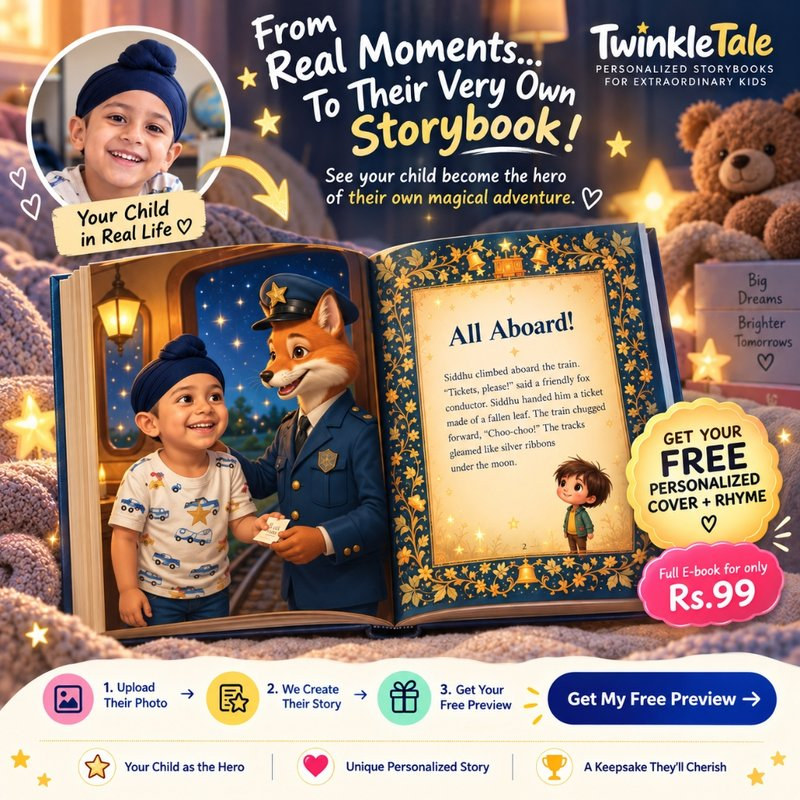
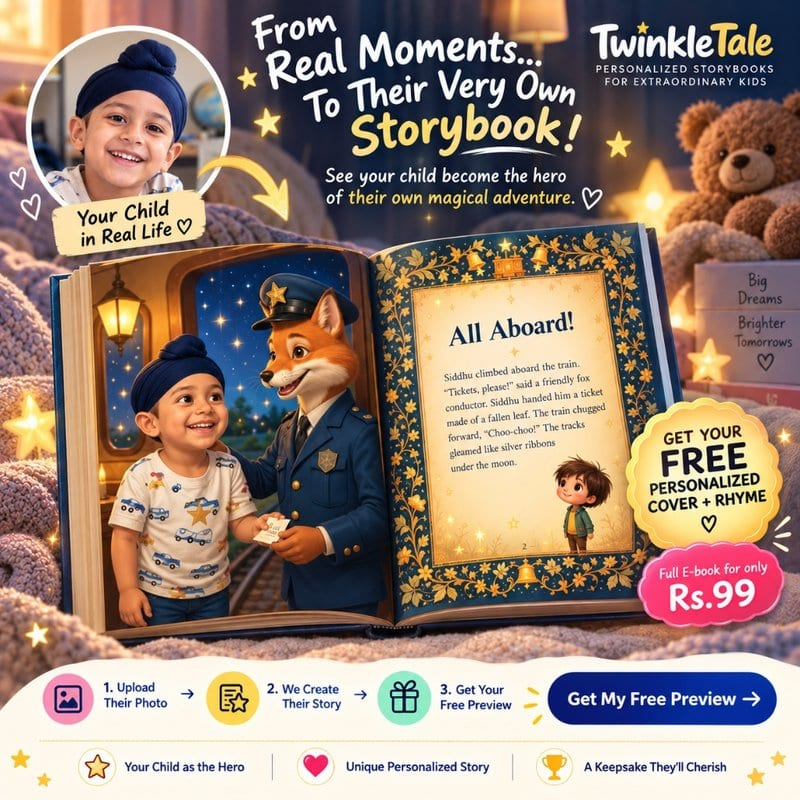
fix(landing): resolve ad visual disorientation, compress showcase images to WebP, and add dynamic personalized preview button

diff --git a/special.html b/special.html
@@ -24,6 +24,9 @@
   <link rel="preconnect" href="https://fonts.gstatic.com" crossorigin>
   <link href="https://fonts.googleapis.com/css2?family=Caveat:wght@600;700&family=Outfit:wght@400;500;600;700;800&family=Playfair+Display:ital,wght@0,600;0,700;0,800;1,600&display=swap" rel="stylesheet">
   <link rel="stylesheet" href="https://cdnjs.cloudflare.com/ajax/libs/font-awesome/6.4.0/css/all.min.css">
+  <!-- Preload & Prefetch Critical Ad Visuals for Sub-Second Load -->
+  <link rel="preload" as="image" href="/public/ad_showcase_siddhu.webp" type="image/webp" fetchpriority="high">
+  <link rel="prefetch" as="image" href="/public/ad_showcase_ananya.webp" type="image/webp">
 
   <!-- Razorpay Checkout SDK -->
   <script src="https://checkout.razorpay.com/v1/checkout.js"></script>
@@ -219,27 +222,30 @@
       box-shadow: var(--shadow-md);
       overflow: hidden;
       margin-bottom: 18px;
+      width: 100%;
     }
     .creative-tabs {
       display: flex;
       background: #F3ECE2;
-      border-bottom: 1px solid var(--border-light);
+      border-bottom: 2px solid var(--border-light);
     }
     .creative-tab {
       flex: 1;
-      padding: 10px 8px;
-      font-size: 0.86rem;
+      padding: 12px 8px;
+      font-size: 0.88rem;
       font-weight: 700;
       text-align: center;
-      background: none;
+      background: #F3ECE2;
       border: none;
-      color: #475569;
+      border-bottom: 3px solid transparent;
+      color: #64748B;
       cursor: pointer;
       display: flex;
       align-items: center;
       justify-content: center;
       gap: 6px;
-      transition: all 0.2s;
+      transition: all 0.2s ease;
+      margin-bottom: -2px;
     }
     .creative-tab.active {
       background: #FFFFFF;
@@ -248,21 +254,23 @@
     }
     .creative-display {
       position: relative;
+      width: 100%;
+      aspect-ratio: 1 / 1;
       background: #0B0E1A;
-      display: flex;
-      align-items: center;
-      justify-content: center;
-      aspect-ratio: 1/1;
-      max-height: 390px;
       overflow: hidden;
+    }
+    .creative-pic {
+      width: 100%;
+      height: 100%;
+      display: none;
+    }
+    .creative-pic.active {
+      display: block;
     }
     .creative-img {
       width: 100%;
       height: 100%;
       object-fit: cover;
-      display: none;
-    }
-    .creative-img.active {
       display: block;
     }
     .creative-caption {
@@ -275,6 +283,7 @@
       justify-content: space-between;
       flex-wrap: wrap;
       gap: 6px;
+      border-top: 1px solid var(--border-light);
     }
     .creative-caption strong { color: var(--navy); }
     .creative-caption .badge-glow {
@@ -1199,16 +1208,22 @@
       <!-- Ad Creative Side-by-Side Showcase -->
       <div class="ad-creative-card">
         <div class="creative-tabs">
-          <button type="button" class="creative-tab active" onclick="switchAdCreative('siddhu')">
+          <button type="button" class="creative-tab active" id="tabSiddhu" onclick="switchAdCreative('siddhu')">
             <i class="fa-solid fa-train"></i> Siddhu's Train Adventure
           </button>
-          <button type="button" class="creative-tab" onclick="switchAdCreative('ananya')">
-            <i class="fa-solid fa-sparkles"></i> Ananya's Fairy Tale
+          <button type="button" class="creative-tab" id="tabAnanya" onclick="switchAdCreative('ananya')">
+            <i class="fa-solid fa-wand-magic-sparkles"></i> Ananya's Fairy Tale
           </button>
         </div>
         <div class="creative-display">
-          <img id="imgSiddhu" class="creative-img active" src="/public/ad_showcase_siddhu.jpg" alt="Siddhu personalized storybook example" fetchpriority="high">
-          <img id="imgAnanya" class="creative-img" src="/public/ad_showcase_ananya.jpg" alt="Ananya personalized storybook example">
+          <picture id="picSiddhu" class="creative-pic active">
+            <source srcset="/public/ad_showcase_siddhu.webp" type="image/webp">
+            <img id="imgSiddhu" class="creative-img" src="/public/ad_showcase_siddhu.jpg" alt="Siddhu personalized storybook example" fetchpriority="high" width="800" height="800">
+          </picture>
+          <picture id="picAnanya" class="creative-pic">
+            <source srcset="/public/ad_showcase_ananya.webp" type="image/webp">
+            <img id="imgAnanya" class="creative-img" src="/public/ad_showcase_ananya.jpg" alt="Ananya personalized storybook example" loading="lazy" width="800" height="800">
+          </picture>
         </div>
         <div class="creative-caption">
           <span>Real Photo ➔ <strong>Personalized Storybook Cover</strong></span>
@@ -1246,7 +1261,7 @@
         <!-- Child Name -->
         <div class="form-group">
           <label class="form-label" for="childName">Child's Name <span class="req">*</span></label>
-          <input type="text" id="childName" class="input-field" placeholder="e.g. Aarav, Ananya, Kabir, Maya..." required maxlength="30" autocomplete="given-name">
+          <input type="text" id="childName" class="input-field" placeholder="e.g. Aarav, Ananya, Kabir, Maya..." required maxlength="30" autocomplete="given-name" oninput="updatePreviewButtonText()">
         </div>
 
         <!-- Gender Pills -->
@@ -1437,7 +1452,7 @@
 
         <!-- Primary Preview Submit Button -->
         <button type="submit" class="btn-primary" id="btnGeneratePreview">
-          <span>✨ Create Free 4K Preview (25s)</span>
+          <span id="btnGeneratePreviewText">✨ See My Child's Free Preview (25s)</span>
           <i class="fa-solid fa-arrow-right"></i>
         </button>
 
@@ -1791,17 +1806,38 @@
 
     // Switch Ad Creative Visuals
     function switchAdCreative(name) {
-      const tabs = document.querySelectorAll('.creative-tab');
-      tabs.forEach(t => t.classList.remove('active'));
-      document.getElementById('imgSiddhu').classList.remove('active');
-      document.getElementById('imgAnanya').classList.remove('active');
+      const tabSiddhu = document.getElementById('tabSiddhu') || document.querySelectorAll('.creative-tab')[0];
+      const tabAnanya = document.getElementById('tabAnanya') || document.querySelectorAll('.creative-tab')[1];
+      const picSiddhu = document.getElementById('picSiddhu');
+      const picAnanya = document.getElementById('picAnanya');
 
       if (name === 'siddhu') {
-        tabs[0].classList.add('active');
-        document.getElementById('imgSiddhu').classList.add('active');
+        if (tabSiddhu) tabSiddhu.classList.add('active');
+        if (tabAnanya) tabAnanya.classList.remove('active');
+        if (picSiddhu) picSiddhu.classList.add('active');
+        if (picAnanya) picAnanya.classList.remove('active');
       } else {
-        tabs[1].classList.add('active');
-        document.getElementById('imgAnanya').classList.add('active');
+        if (tabSiddhu) tabSiddhu.classList.remove('active');
+        if (tabAnanya) tabAnanya.classList.add('active');
+        if (picSiddhu) picSiddhu.classList.remove('active');
+        if (picAnanya) picAnanya.classList.add('active');
+      }
+    }
+
+    // Real-time button text personalization as user types child's name
+    function updatePreviewButtonText() {
+      const nameInput = document.getElementById('childName');
+      const btnSpan = document.getElementById('btnGeneratePreviewText');
+      if (!btnSpan) return;
+      const raw = nameInput ? nameInput.value.trim() : '';
+      if (raw) {
+        const cleanName = raw.split(/\s+/).map(w => w.charAt(0).toUpperCase() + w.slice(1)).join(' ');
+        const possessive = cleanName.endsWith("'s") || cleanName.endsWith("’s")
+          ? cleanName
+          : (cleanName.endsWith('s') || cleanName.endsWith('S') ? `${cleanName}'s` : `${cleanName}'s`);
+        btnSpan.textContent = `✨ See My ${possessive} Free Preview (25s)`;
+      } else {
+        btnSpan.textContent = `✨ See My Child's Free Preview (25s)`;
       }
     }
 

diff --git a/server.js b/server.js
@@ -2670,7 +2670,10 @@ app.get('/api/test-email', async (req, res) => {
 });
 
 app.use('/books', express.static(path.join(__dirname, 'books')));
-app.use('/public', express.static(path.join(__dirname, 'public')));
+app.use('/public', express.static(path.join(__dirname, 'public'), {
+    maxAge: '7d',
+    etag: true
+}));
 
 app.get('/', (req, res) => {
     res.sendFile(path.join(__dirname, 'index.html'));
